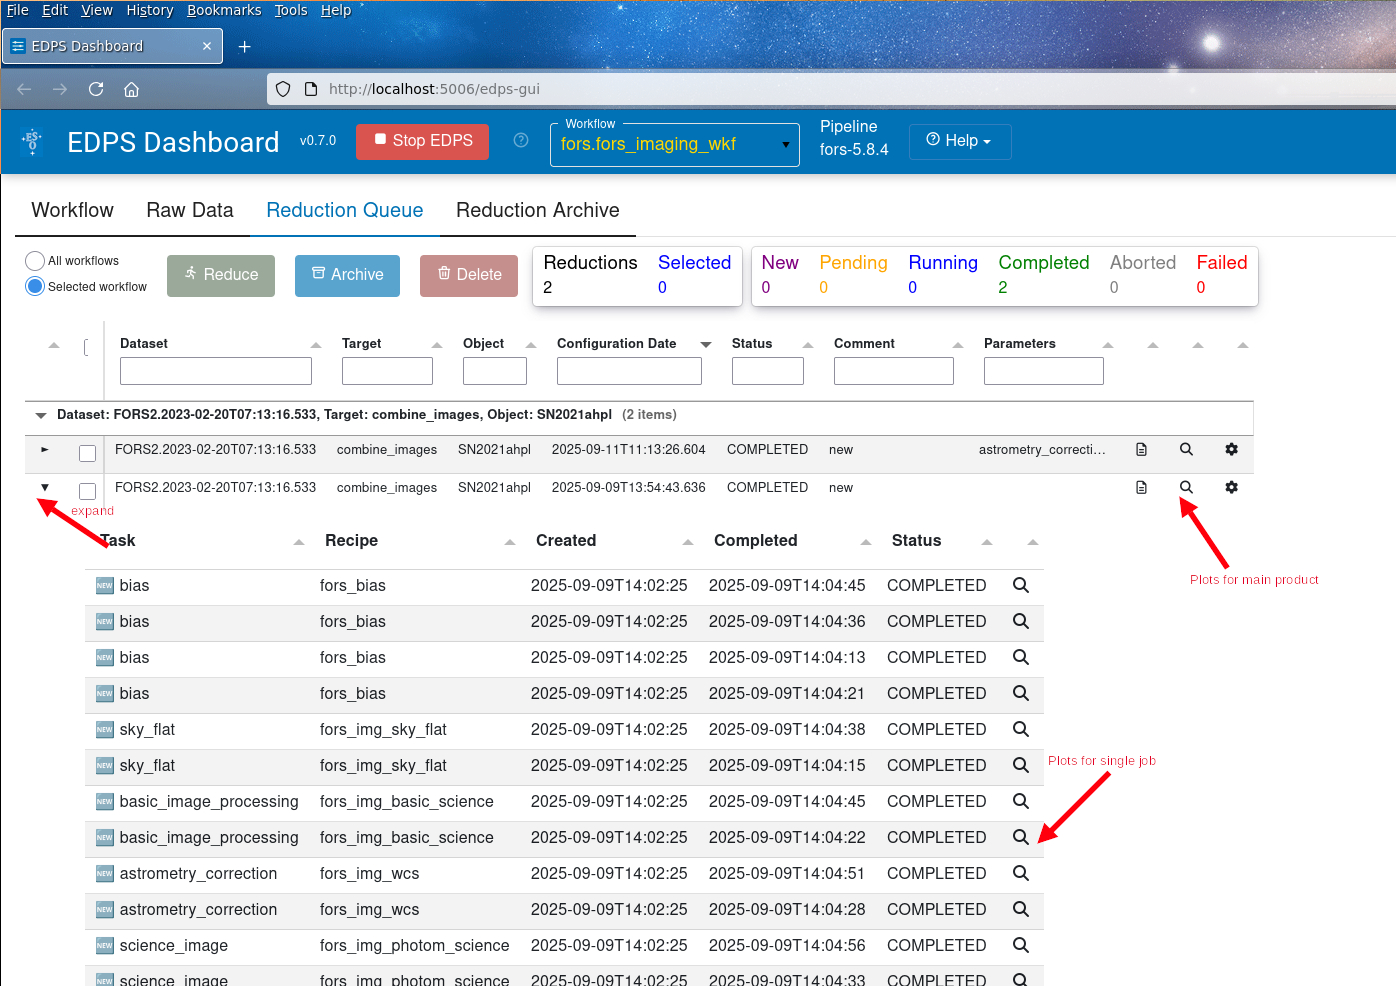
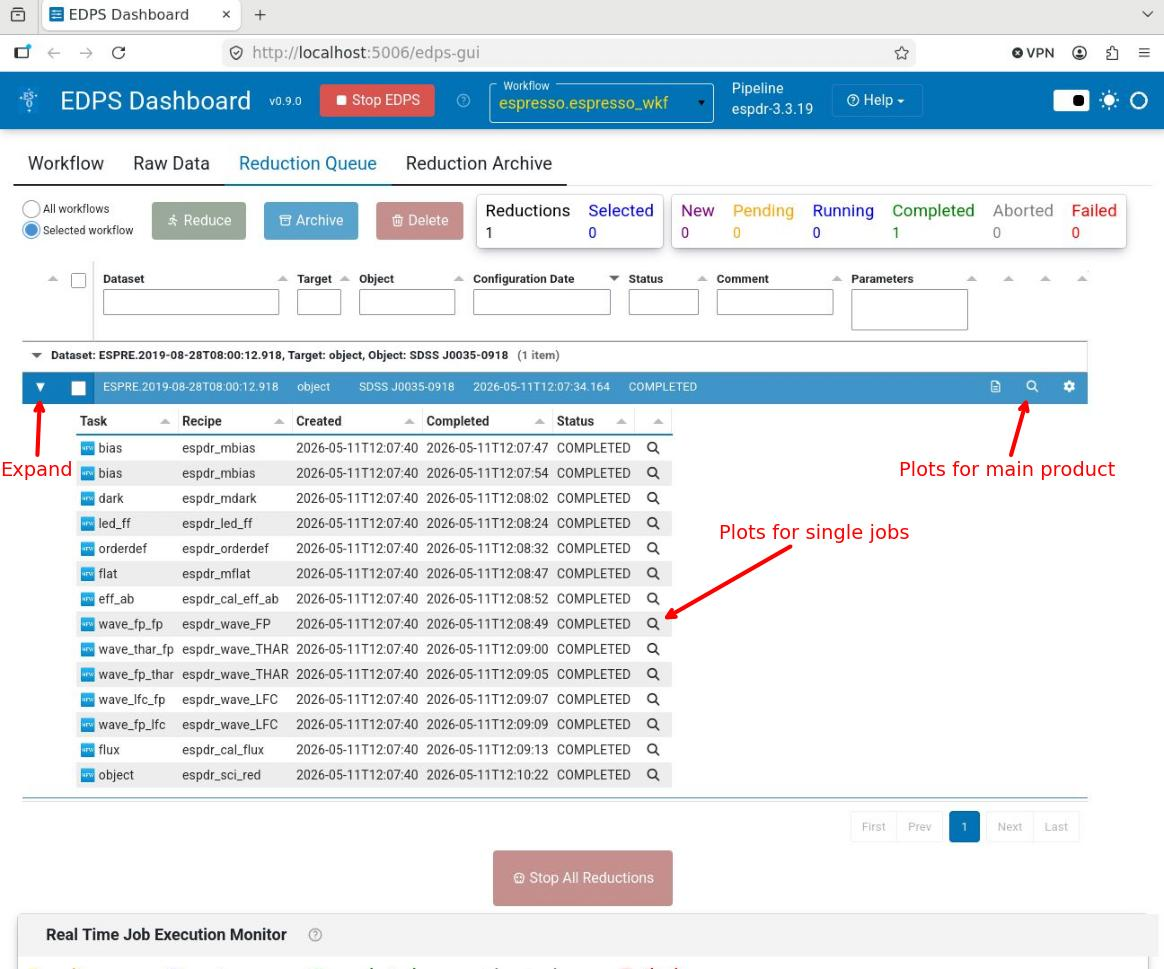
replace figure, rev. number

diff --git a/source/espresso/index.rst b/source/espresso/index.rst
@@ -19,4 +19,4 @@ ESPRESSO tutorial
 
 ------------
 
-ESPRESSO Version 3.3.12 - 20251119
+ESPRESSO Version 3.3.12 - 20260511